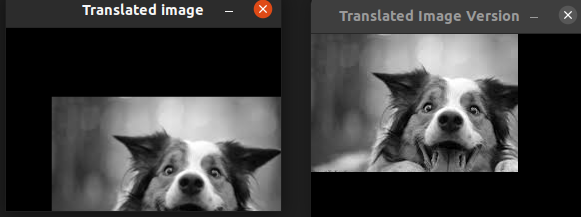
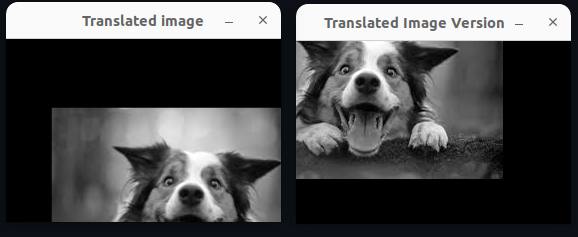
Updated code in 4_cv_basics/2_playing_with_images/3_image_translation/main.cpp and README.md (#127)
* Update main.cpp

code changed from image.at<uchar>(c, r) to image.at<uchar>(c+tx, r+ty) in the for loop

* Update 4_cv_basics/2_playing_with_images/assets/Translated.png

TranslatedImageVersion image was cropped instead of translation

diff --git a/4_cv_basics/2_playing_with_images/3_image_translation/main.cpp b/4_cv_basics/2_playing_with_images/3_image_translation/main.cpp
@@ -55,7 +55,7 @@ int main(){
     {
         for(int c = 0; c<width-tx; c++)
         {
-            img2.at<uchar>(c,r)=image.at<uchar>(c, r);
+            img2.at<uchar>(c,r)=image.at<uchar>(c+tx, r+ty);
         }
     }
 
